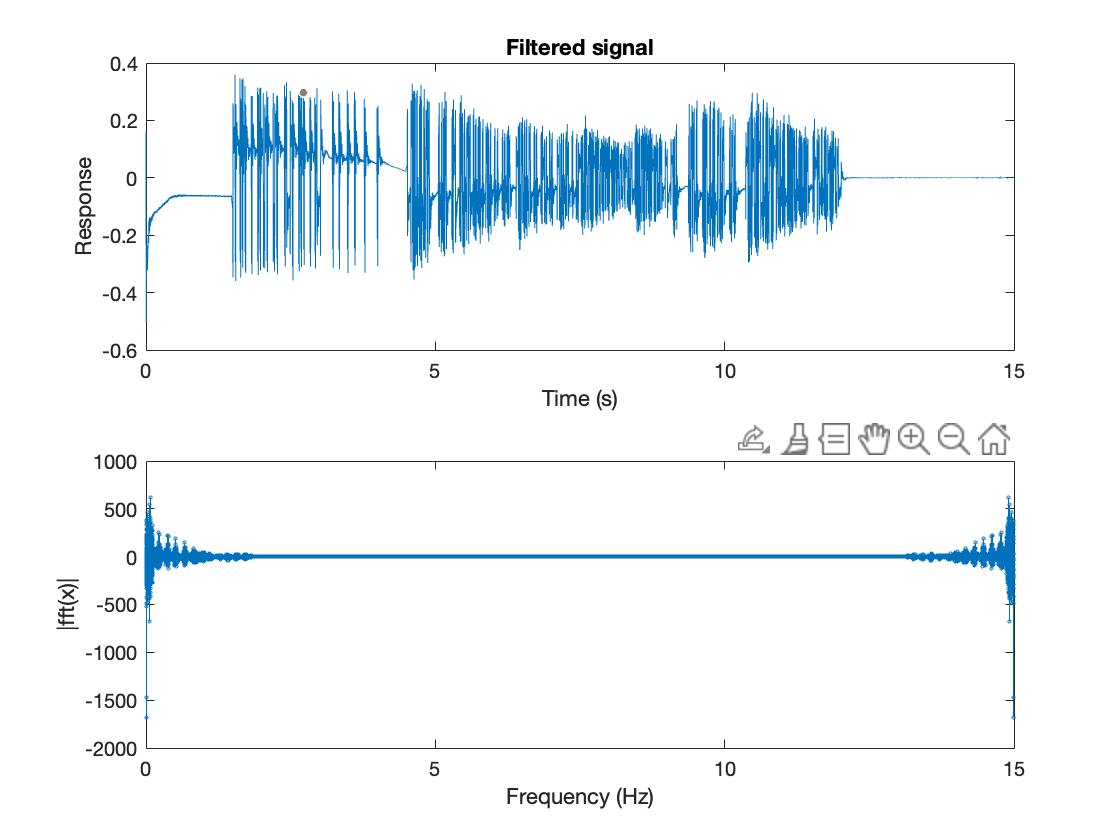
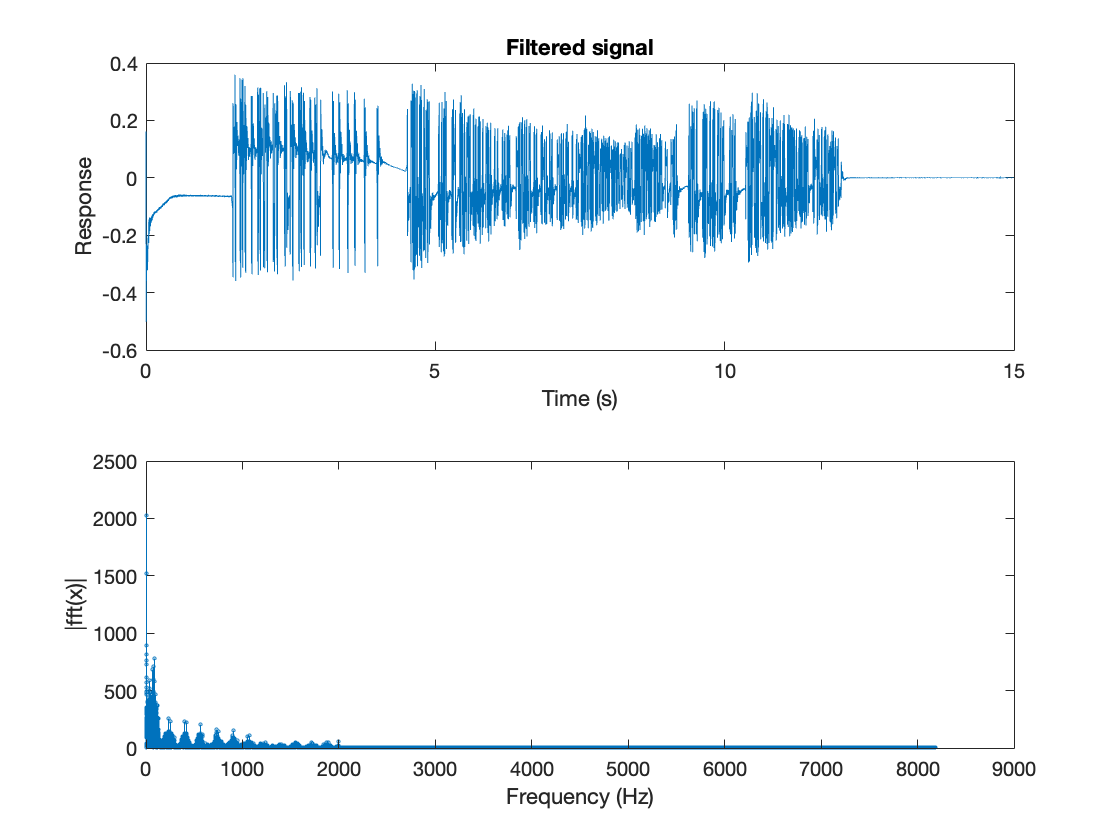
Fixed frequency plots

diff --git a/acoustic_modem_receiver.m b/acoustic_modem_receiver.m
@@ -1,7 +1,7 @@
 load long_modem_rx.mat
 
 SymbolPeriod = 100;
-signal_length = 122350;
+signal_length = 123*8;
 
 % The received signal includes a bunch of samples from before the
 % transmission started so we need discard these samples that occurred before
@@ -21,19 +21,23 @@ y_c = y_t.*cosine_transform;
 t = [-100000:1:99999]*(1/Fs);
 W = 2*pi*f_c;
 lp = W/Fs * sinc(W/pi*t); %filter and normalize by dividing by fs
+
+% lp = 40;
 x_d = conv(y_c, lp, 'same');
 
 % Convert to a string assuming that x_d is a vector of 1s and 0s
 % representing the decoded bits.
-x_d_bits = x_d(SymbolPeriod/2:SymbolPeriod:signal_length) > 0;
-x_d_bits = x_d_bits(1:123*8);
+x_d_bits = x_d(SymbolPeriod/2:SymbolPeriod:end) > 0;
+x_d_bits = x_d_bits(1:signal_length);
 BitsToString(x_d_bits)
 
 
 
 % Plots
+L = length(x_d)/2;
 
 % Transmitted signal
+frequency_response = abs(fft(y_t));
 figure
 subplot(2, 1, 1)
 plot(t_vals, y_t);
@@ -41,11 +45,12 @@ title('Raw transmitted signal')
 xlabel('Time (s)')
 ylabel('Response')
 subplot(2, 1, 2)
-plot(t_vals, fft(y_t), MarkerSize=1.75);
+stem(Fs/L*(0:L-1), frequency_response(1:L), MarkerSize=1.75);
 xlabel('Frequency (Hz)')
 ylabel('|fft(x)|')
 
 % Before filtering
+frequency_response = abs(fft(y_c));
 figure
 subplot(2, 1, 1)
 plot(t_vals, y_c);
@@ -53,11 +58,12 @@ title('Signal before filtering')
 xlabel('Time (s)')
 ylabel('Response')
 subplot(2, 1, 2)
-plot(t_vals, fft(y_c), MarkerSize=1.75);
+stem(Fs/L*(0:L-1), frequency_response(1:L), MarkerSize=1.75);
 xlabel('Frequency (Hz)')
 ylabel('|fft(x)|')
 
 % After filtering
+frequency_response = abs(fft(x_d));
 figure
 subplot(2, 1, 1)
 plot(t_vals, x_d);
@@ -65,7 +71,7 @@ title('Filtered signal')
 xlabel('Time (s)')
 ylabel('Response')
 subplot(2, 1, 2)
-stem(t_vals, fft(x_d), MarkerSize=1.75);
+stem(Fs/L*(0:L-1), frequency_response(1:L), MarkerSize=1.75);
 xlabel('Frequency (Hz)')
 ylabel('|fft(x)|')
 